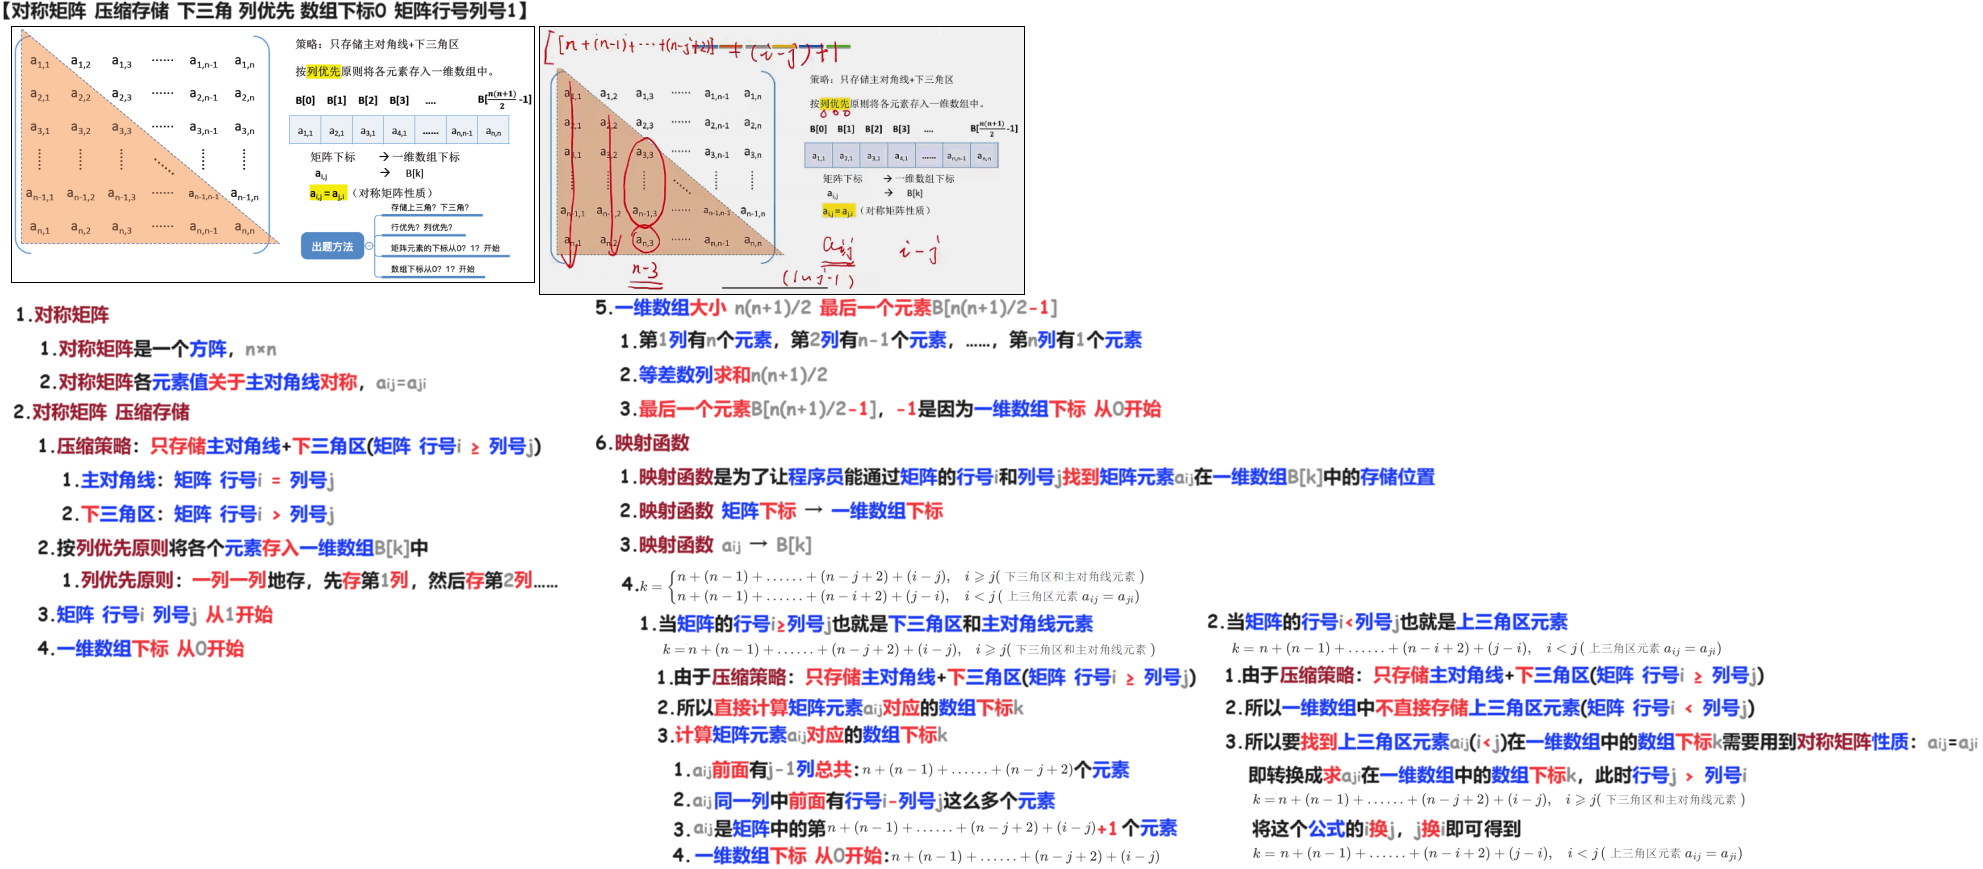
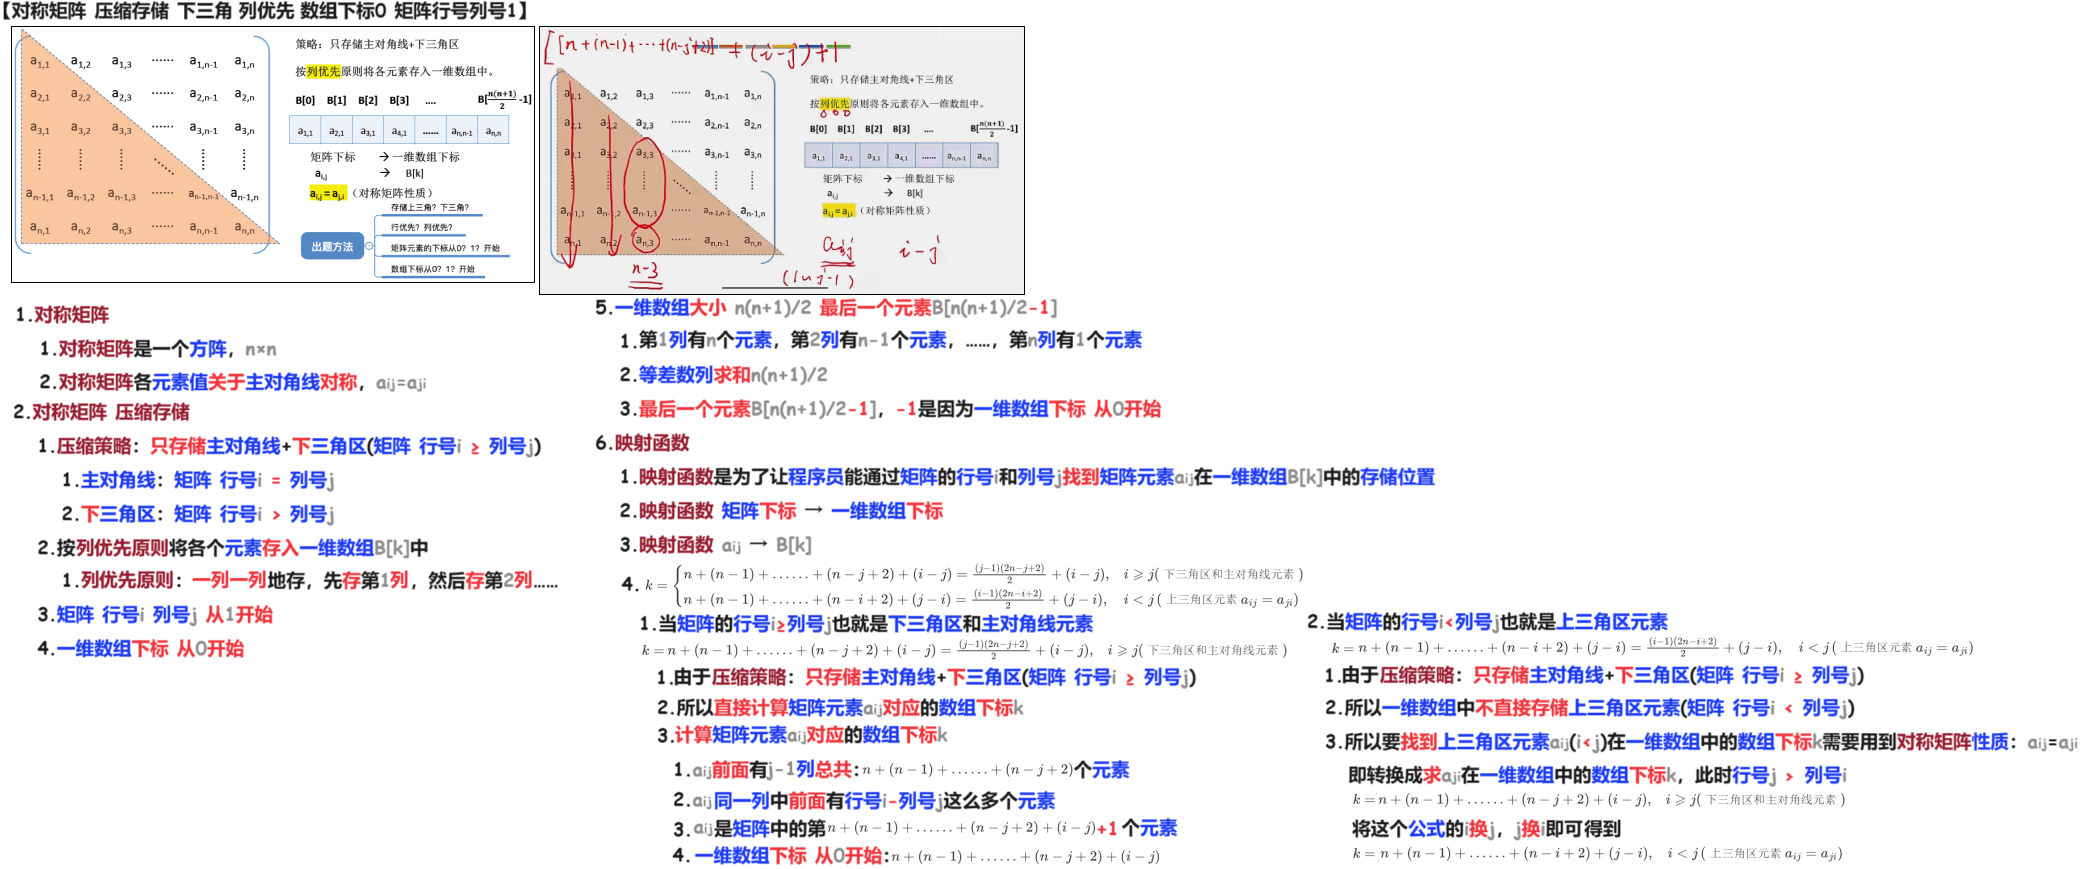
240405

Changed region(s): [[0.0, 0.0, 0.9844, 0.9942]]

diff --git a/01 初试/02 DS/01 题集/02 专题/06 特殊矩阵 压缩存储/01 知识点/02 三角矩阵 压缩存储 240405/02 Doc.md b/01 初试/02 DS/01 题集/02 专题/06 特殊矩阵 压缩存储/01 知识点/02 三角矩阵 压缩存储 240405/02 Doc.md
@@ -8,4 +8,6 @@
 
 
 
-# 02 下三角矩阵 列优先 数组下标0 矩阵行号列号1
+# 02 上三角矩阵 行优先 数组下标0 矩阵行号列号1
+
+<img src="https://cvp.oss-cn-shanghai.aliyuncs.com/picgo/202404052059977.png" alt="image-20240405205922595" style="zoom:50%;" />

diff --git a/01 初试/02 DS/01 题集/02 专题/06 特殊矩阵 压缩存储/01 知识点/01 对称矩阵 压缩存储 240405/02 Doc.md b/01 初试/02 DS/01 题集/02 专题/06 特殊矩阵 压缩存储/01 知识点/01 对称矩阵 压缩存储 240405/02 Doc.md
@@ -10,4 +10,4 @@
 
 # 02 下三角 列优先 数组下标0 矩阵行号列号1
 
-![image-20240405154815564](https://cvp.oss-cn-shanghai.aliyuncs.com/picgo/202404051548881.png)
+<img src="https://cvp.oss-cn-shanghai.aliyuncs.com/picgo/202404052035593.png" style="zoom:50%;" />
